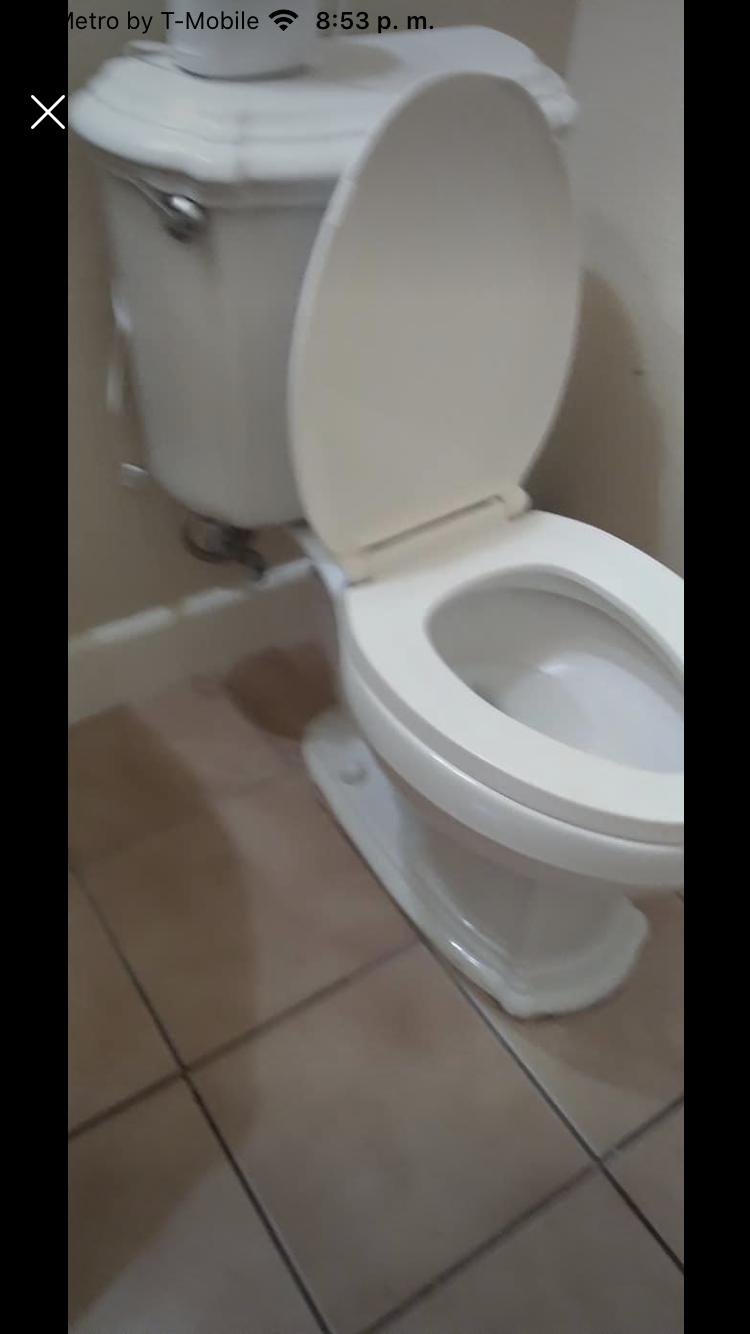
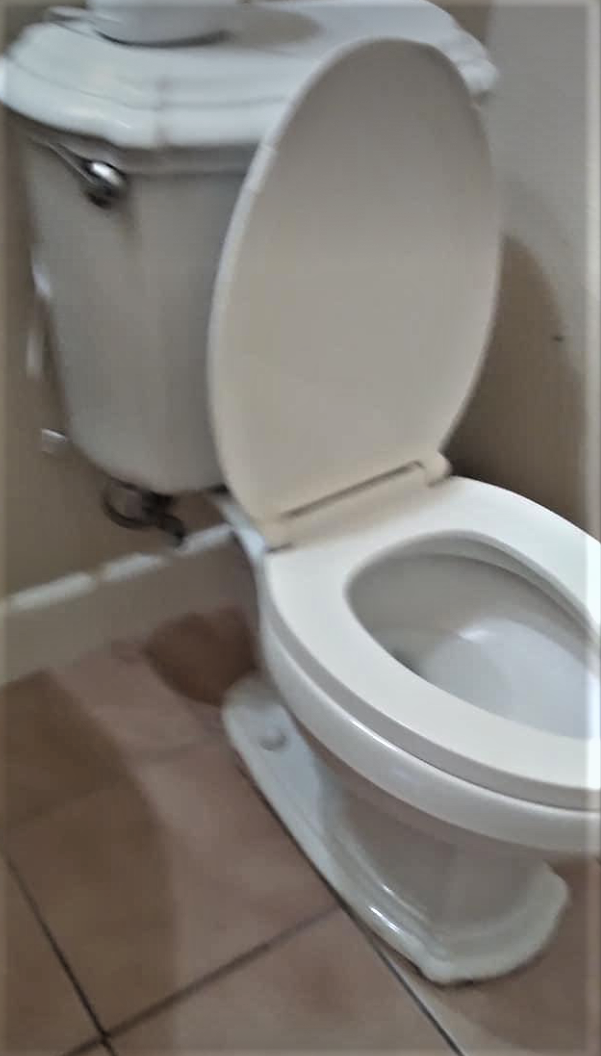
cropped images and added a slide to carousel

diff --git a/index.html b/index.html
@@ -42,29 +42,51 @@
     </p>
   </div>
 
-  <div id="carouselExampleControls" class="carousel slide" data-ride="carousel">
-    <div class="carousel-inner">
-      <div class="carousel-item active">
-        <div class="container">
-          <img class="d-block w-100" src="" alt="First slide">
+  <div class="container">
+    <div id="carouselExampleIndicators" class="carousel slide" data-ride="carousel">
+      <ol class="carousel-indicators">
+        <li data-target="#carouselExampleIndicators" data-slide-to="0" class="active"></li>
+        <li data-target="#carouselExampleIndicators" data-slide-to="1"></li>
+        <li data-target="#carouselExampleIndicators" data-slide-to="2"></li>
+        <li data-target="#carouselExampleIndicators" data-slide-to="3"></li>
+      </ol>
+      <div class="carousel-inner">
+        <div class="carousel-item active">
+          <img class="d-block w-100" src="public/images/IMG_1878.png" alt="First slide">
+          <div class="top-left">
+            BEFORE
+          </div>
+        </div>
+        <div class="carousel-item">
+          <img class="d-block w-100" src="public/images/IMG_1881.png" alt="Second slide">
+          <div class="top-left">
+            AFTER
+          </div>
+        </div>
+        <div class="carousel-item">
+          <img class="d-block w-100" src="public/images/IMG_1879.png" alt="Third slide">
+          <div class="top-left">
+            BEFORE
+          </div>
+        </div>
+        <div class="carousel-item">
+          <img class="d-block w-100" src="public/images/IMG_1880.png" alt="Fourth slide">
+          <div class="top-left">
+            AFTER
+          </div>
         </div>
       </div>
-      <div class="carousel-item">
-        <img class="d-block w-100" src="..." alt="Second slide">
-      </div>
-      <div class="carousel-item">
-        <img class="d-block w-100" src="..." alt="Third slide">
-      </div>
+      <a class="carousel-control-prev" href="#carouselExampleIndicators" role="button" data-slide="prev">
+        <span class="carousel-control-prev-icon" aria-hidden="true"></span>
+        <span class="sr-only">Previous</span>
+      </a>
+      <a class="carousel-control-next" href="#carouselExampleIndicators" role="button" data-slide="next">
+        <span class="carousel-control-next-icon" aria-hidden="true"></span>
+        <span class="sr-only">Next</span>
+      </a>
     </div>
-    <a class="carousel-control-prev" href="#carouselExampleControls" role="button" data-slide="prev">
-      <span class="carousel-control-prev-icon" aria-hidden="true"></span>
-      <span class="sr-only">Previous</span>
-    </a>
-    <a class="carousel-control-next" href="#carouselExampleControls" role="button" data-slide="next">
-      <span class="carousel-control-next-icon" aria-hidden="true"></span>
-      <span class="sr-only">Next</span>
-    </a>
   </div>
+
 
   <div class="container">
     <h6>Call us to schedule a consultation today!</h6>

diff --git a/public/styles/styles.css b/public/styles/styles.css
@@ -14,7 +14,20 @@
   height: auto;
 }
 
-.w-100 {
-  width: 100% !important;
-  height: 75vh;
+.carousel-inner>.carousel-item>img {
+  width: 400px !important;
+  height: 480px !important;
+  margin: auto;
+}
+
+.top-left {
+  position: absolute;
+  top: 8px;
+  left: 16px;
+}
+
+.carousel-control-next,
+.carousel-control-prev {
+  /*, .carousel-indicators */
+  filter: invert(100%);
 }
